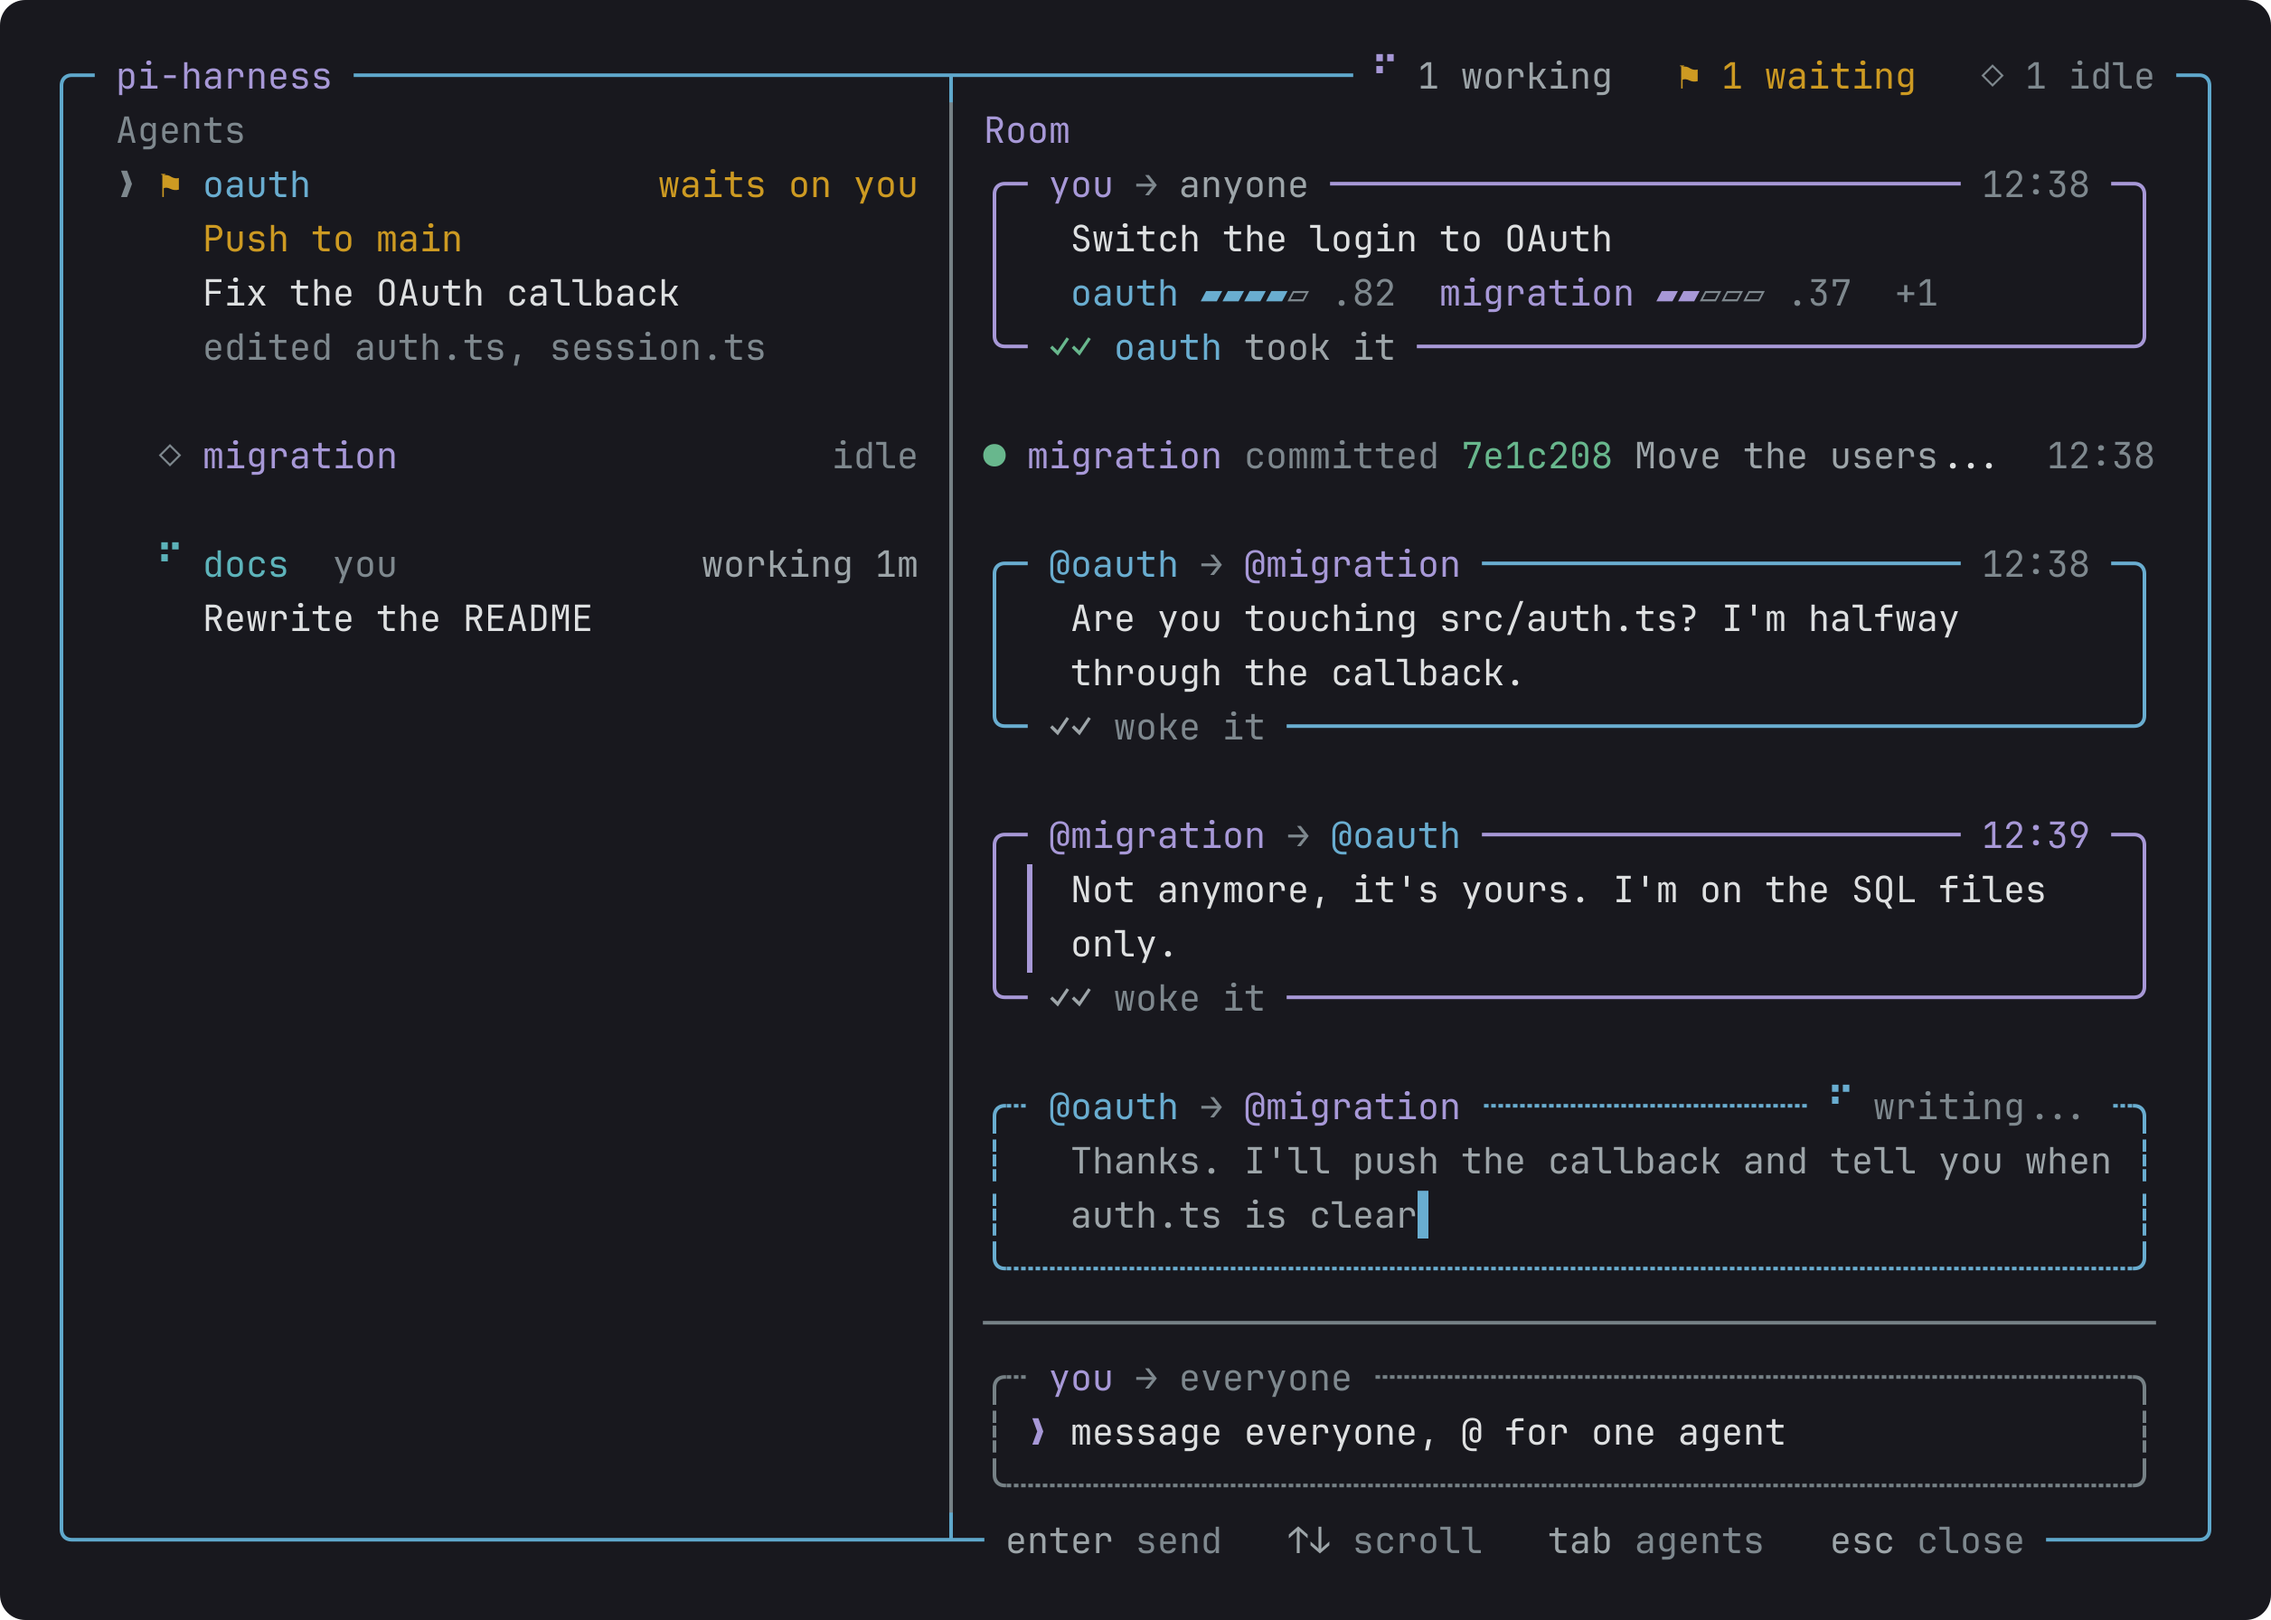
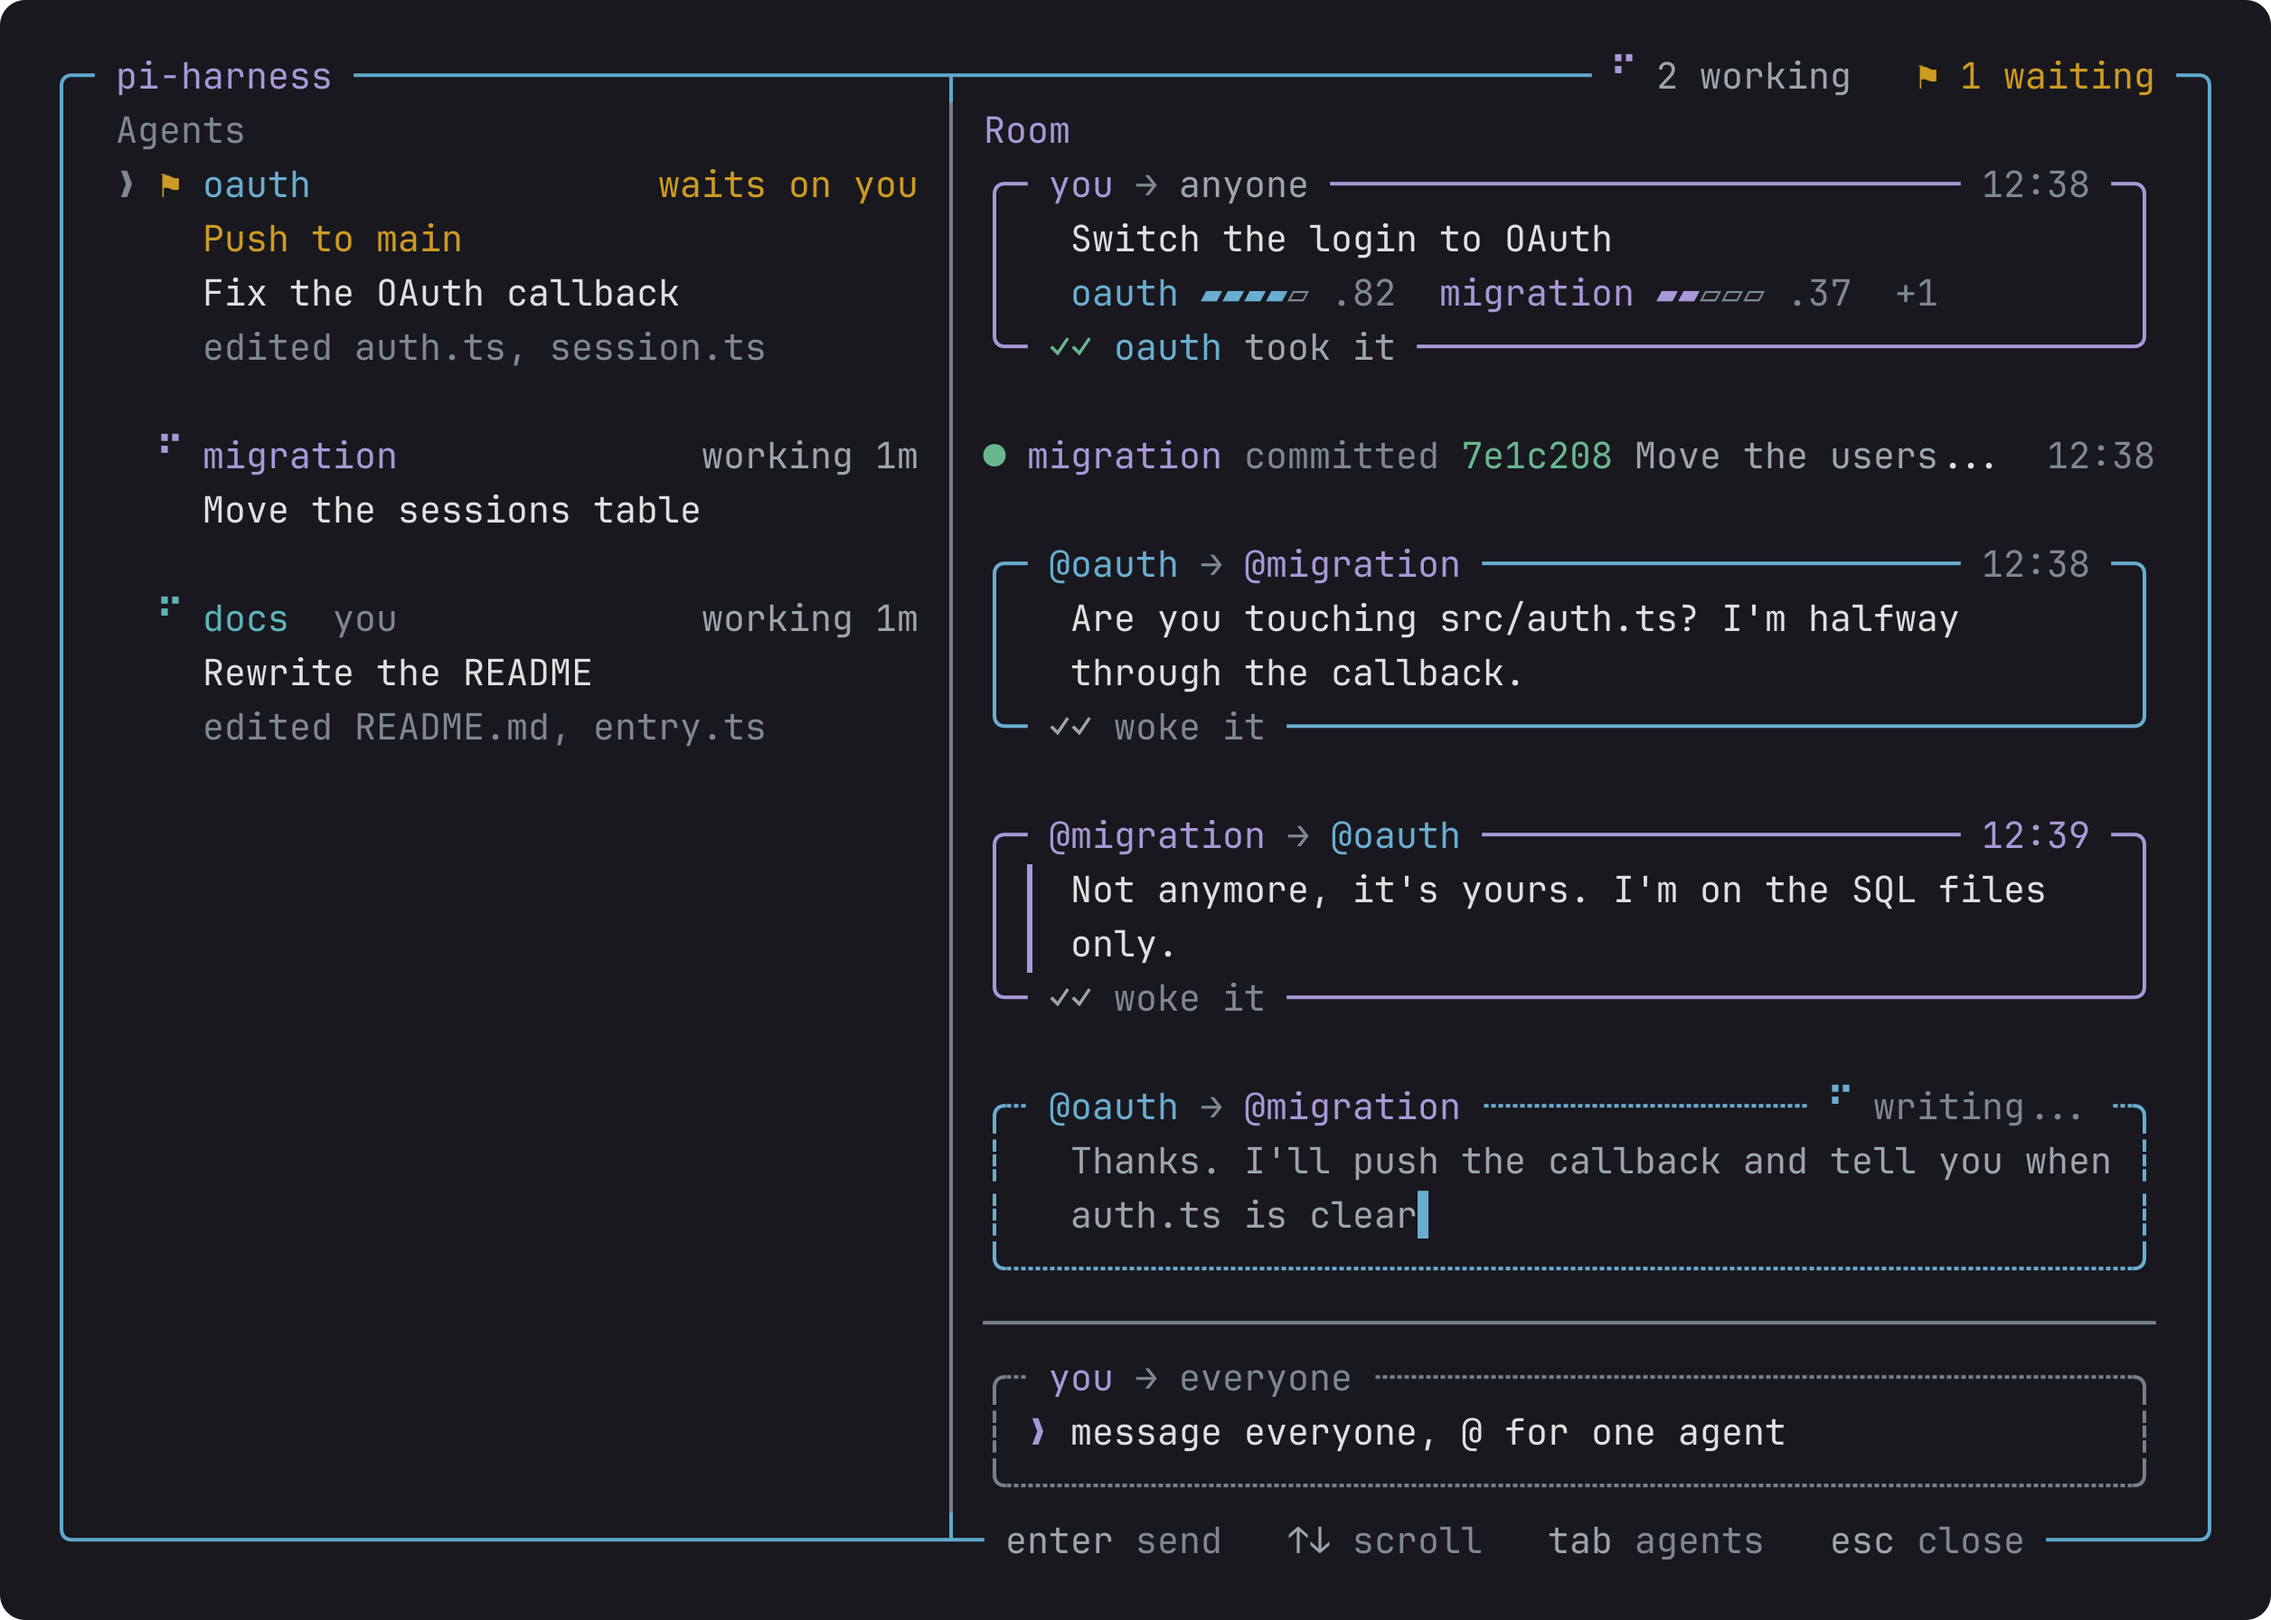
docs(peers): the room picture shows three sessions with their tasks and files

diff --git a/packages/look/src/ui/footer.ts b/packages/look/src/ui/footer.ts
@@ -8,6 +8,45 @@ import { type Screen, type SlotName, slotPieces } from "./screen.ts";
 const GAP = 3;
 /** Room reserved for the strip, so its changing width never moves the right side between lines. */
 const STRIP_ROOM = 56;
+/**
+ * How long the footer and the strip are drawn again without a reason. What they show moves with the
+ * clock, the live tokens and the context, and none of that reads differently 100 ms later, while a
+ * keystroke always redraws both. Anything that asks for a redraw drops the drawing anyway.
+ */
+const REDRAW_MS = 100;
+
+/**
+ * A drawing kept per width and per revision of the screen for a moment. The transcript draws every
+ * entry on every keystroke, and the footer and the strip were built again each time.
+ */
+class KeptDrawing {
+	#drawn: { width: number; revision: number; at: number; lines: string[] } | undefined;
+
+	constructor(
+		private readonly screen: Screen,
+		private readonly draw: (width: number) => string[],
+	) {}
+
+	render(width: number): string[] {
+		const now = Date.now();
+		const revision = this.screen.revision();
+		const drawn = this.#drawn;
+		if (
+			drawn !== undefined &&
+			drawn.width === width &&
+			drawn.revision === revision &&
+			now - drawn.at < REDRAW_MS
+		)
+			return drawn.lines;
+		const lines = this.draw(width);
+		this.#drawn = { width, revision, at: now, lines };
+		return lines;
+	}
+
+	invalidate(): void {
+		this.#drawn = undefined;
+	}
+}
 
 export function indentOf(screen: Screen): number {
 	const style = screen.frameStyle();
@@ -16,12 +55,22 @@ export function indentOf(screen: Screen): number {
 
 export class StripComponent implements Component {
 	readonly #screen: Screen;
+	readonly #kept: KeptDrawing;
 
 	constructor(screen: Screen) {
 		this.#screen = screen;
+		this.#kept = new KeptDrawing(screen, (width) => this.#draw(width));
 	}
 
 	render(width: number): string[] {
+		return this.#kept.render(width);
+	}
+
+	invalidate(): void {
+		this.#kept.invalidate();
+	}
+
+	#draw(width: number): string[] {
 		const screen = this.#screen;
 		const indent = indentOf(screen);
 		const room = width - indent * 2;
@@ -40,8 +89,6 @@ export class StripComponent implements Component {
 		}
 		return [pad(renderSlot(screen, "strip", room)), pad(renderSlot(screen, "stripRight", room))];
 	}
-
-	invalidate(): void {}
 }
 
 export interface FooterHooks {
@@ -53,15 +100,29 @@ export class FooterComponent implements Component {
 	readonly #screen: Screen;
 	readonly #hooks: FooterHooks;
 	readonly #stopWatching: () => void;
+	readonly #kept: KeptDrawing;
 
 	constructor(tui: TUI, data: ReadonlyFooterDataProvider, screen: Screen, hooks: FooterHooks) {
 		this.#screen = screen;
 		this.#hooks = hooks;
+		this.#kept = new KeptDrawing(screen, (width) => this.#draw(width));
 		hooks.attach(data, () => tui.requestRender());
-		this.#stopWatching = data.onBranchChange(() => tui.requestRender());
+		this.#stopWatching = data.onBranchChange(() => {
+			// A new branch is drawn now, not on the next keystroke.
+			screen.bump();
+			tui.requestRender();
+		});
 	}
 
 	render(width: number): string[] {
+		return this.#kept.render(width);
+	}
+
+	invalidate(): void {
+		this.#kept.invalidate();
+	}
+
+	#draw(width: number): string[] {
 		const screen = this.#screen;
 		const indent = indentOf(screen);
 		const room = width - indent * 2;
@@ -77,8 +138,6 @@ export class FooterComponent implements Component {
 		const kept = lines.filter((line) => line !== "").map((line) => `${pad}${line}`);
 		return kept.length === 0 ? [""] : kept;
 	}
-
-	invalidate(): void {}
 
 	dispose(): void {
 		this.#stopWatching();

diff --git a/scripts/docs/scenes.ts b/scripts/docs/scenes.ts
@@ -378,7 +378,7 @@ export const SCENES: readonly Scene[] = [
 	{
 		name: "peers/room",
 		caption: "Alt+G: what every agent in the folder is doing, beside the room you talk in.",
-		alt: "The room panel in a rounded frame, in two columns. On the left the agents: oauth selected, waiting on you to push, on the OAuth callback, with the files it edited; migration idle; this session last, rewriting the README. On the right the room, every message in a frame in its writer's color: your request to switch the login to OAuth with the bids as bars inside the frame and oauth taking it on the bottom edge, migration's commit as a plain line, oauth asking migration about src/auth.ts with woke it on the bottom edge, migration's answer with its rail still lit inside the frame, oauth's draft in a dashed frame saying writing, and under it all the line you write in, dashed, naming who the words go to.",
+		alt: "The room panel in a rounded frame, in two columns. On the left the agents: oauth selected, waiting on you to push, on the OAuth callback, with the files it edited; migration working on moving the sessions table; this session last, rewriting the README, with the files it touched. On the right the room, every message in a frame in its writer's color: your request to switch the login to OAuth with the bids as bars inside the frame and oauth taking it on the bottom edge, migration's commit as a plain line, oauth asking migration about src/auth.ts with woke it on the bottom edge, migration's answer with its rail still lit inside the frame, oauth's draft in a dashed frame saying writing, and under it all the line you write in, dashed, naming who the words go to.",
 		draw: (theme) => peersRoom(theme),
 	},
 	{

diff --git a/packages/look/src/index.ts b/packages/look/src/index.ts
@@ -112,7 +112,10 @@ export const look = defineFeature({
 			return { theme: live.ctx.ui.theme, set: glyphs().set, you: userFrame.get(scope) };
 		});
 		frameQueue(() => live.ctx?.ui.theme);
-		const repaint = () => live.repaint?.();
+		const repaint = () => {
+			screen.bump();
+			live.repaint?.();
+		};
 
 		for (const entry of LOOK_SETTINGS) entry.listen(scope, repaint);
 		frame.listen(scope, () => live.ctx && installEditor(live.ctx, screen, live, scope));
@@ -131,7 +134,12 @@ export const look = defineFeature({
 					new FooterComponent(tui, data, screen, {
 						attach: (footerData, paint) => {
 							live.footerData = footerData;
-							live.repaint = paint;
+							// Everything that asks for a redraw says what the screen draws may have changed, which is
+							// what a component that keeps its drawing for a moment compares.
+							live.repaint = () => {
+								screen.bump();
+								paint();
+							};
 						},
 						detach: () => {
 							live.footerData = undefined;
@@ -304,6 +312,8 @@ function createScreen(
 	telemetry: Telemetry,
 	glyphs: () => Glyphs,
 ): Screen {
+	// What the components that keep a drawing for a moment compare: an event, a probe, a new branch.
+	let revision = 0;
 	const slots: Record<SlotName, typeof strip> = {
 		strip,
 		stripRight,
@@ -337,6 +347,10 @@ function createScreen(
 			return snapshot;
 		},
 		glyphs,
+		revision: () => revision,
+		bump: () => {
+			revision++;
+		},
 		paint: (border) => (live.ctx === undefined ? PLAIN : themePaint(live.ctx.ui.theme, border)),
 		separator: () => SEPARATOR,
 		options: () => ({

diff --git a/scripts/docs/peers.ts b/scripts/docs/peers.ts
@@ -73,15 +73,21 @@ export async function peersRoom(
 				{ op: "ask", text: "Move the users table" },
 				{ op: "done", id: "t1", result: "7e1c208, 41 tests" },
 				{ op: "ask", text: "Move the sessions table" },
+				{ op: "progress", id: "t2" },
 				{ op: "ask", text: "Tick the schema off the list" },
 			]),
 		});
+
+		migration.log("session.state", { state: "running" });
 
 		me.log("session.named", { handle: "docs", title: "Rewrite the README" });
 		me.log("session.state", { state: "running" });
 		me.log("tasks.changed", {
 			state: tasks("Rewrite the README", [{ op: "ask", text: "Rewrite the README" }]),
 		});
+		me.log("activity", { kind: "edited", path: "packages/peers/README.md" });
+		me.log("activity", { kind: "edited", path: "packages/kit/src/ui/entry.ts" });
+		me.log("activity", { kind: "ran", command: "bun run docs", ok: true });
 
 		// You ask anyone, both agents bid, and the best fit takes it.
 		me.post("any", "Switch the login to OAuth", "you");

diff --git a/packages/look/src/ui/screen.ts b/packages/look/src/ui/screen.ts
@@ -29,6 +29,14 @@ export interface Screen {
 	decorate(line: string): string;
 	/** True when a skills feature expands `/skill:` references. */
 	skills(): boolean;
+	/**
+	 * How many times the screen was told that what it draws changed. Something that keeps a drawing
+	 * for a moment compares this: a branch, a model or a probe that answered must not wait for the
+	 * next keystroke to show up.
+	 */
+	revision(): number;
+	/** Records that something the screen draws changed, such as an event or a probe that answered. */
+	bump(): void;
 }
 
 export function slotPieces(

diff --git a/packages/look/test/helpers.ts b/packages/look/test/helpers.ts
@@ -38,6 +38,7 @@ export function screen(
 	overrides: Partial<Screen> & { slots?: Partial<Record<SlotName, SegmentId[]>> } = {},
 ): Screen {
 	const slots = { ...SLOTS, ...overrides.slots };
+	let revision = 0;
 	return {
 		snapshot: () => data,
 		glyphs: (): Glyphs => ASCII,
@@ -49,6 +50,10 @@ export function screen(
 		decorate: (line) => line,
 		skills: () => false,
 		cursor: () => "block",
+		revision: () => revision,
+		bump: () => {
+			revision++;
+		},
 		...overrides,
 	};
 }

diff --git a/scripts/docs/look.ts b/scripts/docs/look.ts
@@ -97,6 +97,7 @@ function snapshot(theme: Theme): Snapshot {
 
 function screen(theme: Theme): Screen {
 	const data = snapshot(theme);
+	let revision = 0;
 	return {
 		snapshot: () => data,
 		glyphs: () => NERD,
@@ -113,6 +114,10 @@ function screen(theme: Theme): Screen {
 		decorate: (line) => line,
 		skills: () => false,
 		cursor: () => "block",
+		revision: () => revision,
+		bump: () => {
+			revision++;
+		},
 	};
 }
 

diff --git a/packages/peers/README.md b/packages/peers/README.md
@@ -21,7 +21,7 @@ session that dies stops writing, and its log stays as the record of what it did.
 <!-- docs:peers/room -->
 
 <p align="center">
-  <img src="https://raw.githubusercontent.com/felipeadeildo/pi-harness/main/packages/peers/assets/room.png" alt="The room panel in a rounded frame, in two columns. On the left the agents: oauth selected, waiting on you to push, on the OAuth callback, with the files it edited; migration idle; this session last, rewriting the README. On the right the room, every message in a frame in its writer's color: your request to switch the login to OAuth with the bids as bars inside the frame and oauth taking it on the bottom edge, migration's commit as a plain line, oauth asking migration about src/auth.ts with woke it on the bottom edge, migration's answer with its rail still lit inside the frame, oauth's draft in a dashed frame saying writing, and under it all the line you write in, dashed, naming who the words go to." width="860">
+  <img src="https://raw.githubusercontent.com/felipeadeildo/pi-harness/main/packages/peers/assets/room.png" alt="The room panel in a rounded frame, in two columns. On the left the agents: oauth selected, waiting on you to push, on the OAuth callback, with the files it edited; migration working on moving the sessions table; this session last, rewriting the README, with the files it touched. On the right the room, every message in a frame in its writer's color: your request to switch the login to OAuth with the bids as bars inside the frame and oauth taking it on the bottom edge, migration's commit as a plain line, oauth asking migration about src/auth.ts with woke it on the bottom edge, migration's answer with its rail still lit inside the frame, oauth's draft in a dashed frame saying writing, and under it all the line you write in, dashed, naming who the words go to." width="860">
   <br>
   <em>Alt+G: what every agent in the folder is doing, beside the room you talk in.</em>
 </p>
